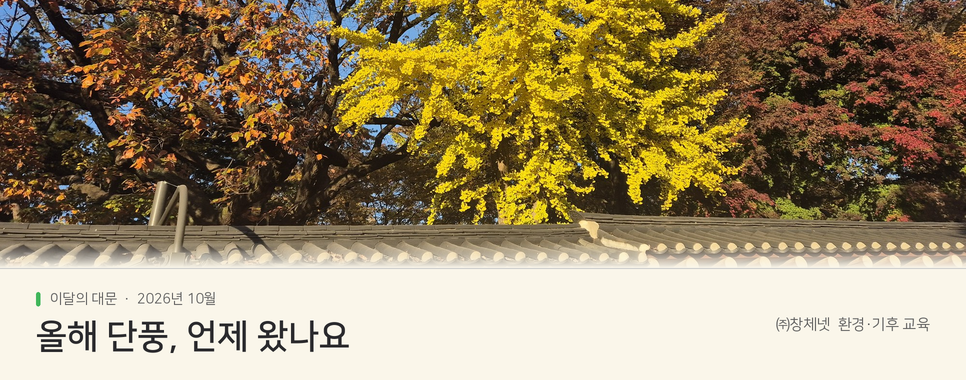
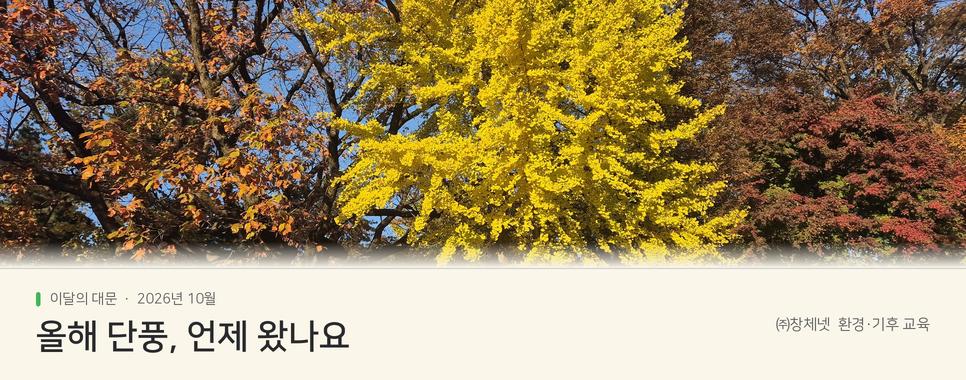
10월 이달의 대문 확정(중간 크롭)과 단풍 포스팅 추가
- blog/covers/2026-10_단풍/: 타이틀을 crop-top 0.55(중간)로 재생성.
  은행나무가 화면을 채우고 좌우 단풍과 대비가 살아난다
- blog/posts/2026-10-01_환경기후교육_올해단풍언제왔나요.md: 본문 1,288자.
  기상청 계절관측 기준(첫 단풍 20%·절정 80%, 최저기온 5도·일교차)과
  2024년 설악산 기록(절정 10월 29일, 평년 대비 12일 늦음, 1985년 관측 이래 최장 지연)을
  근거로 삼고, 대문 사진 선정 이유를 '어긋난 시간'으로 풀어 씀
- README: 구글 드라이브 폴더 구조(01_사진자산·02_이달의대문·03_원고) 안내 추가

Claude-Session: https://claude.ai/code/session_01YRwDhsSCaGfBvwuCs2XTsL

diff --git a/blog/posts/2026-10-01_환경기후교육_올해단풍언제왔나요.md b/blog/posts/2026-10-01_환경기후교육_올해단풍언제왔나요.md
@@ -1,0 +1,53 @@
+---
+section: "🌱 환경·기후 교육 (섹션 A)"
+series: "이달의 대문"
+publish_date: "2026-10-01"
+cover: "blog/covers/2026-10_단풍/창체넷_대문_2026-10_타이틀.png"
+target_reader: "교사, 학부모, 교육 담당자"
+keywords: ["단풍", "기상청 계절관측", "기후변화", "이달의 대문", "환경교육"]
+images:
+  - "도입부: 이달의 대문 타이틀 이미지 또는 03_은행나무_한옥담장.jpg 원본"
+sources:
+  - "기상청 계절관측 기준(첫 단풍 20%·절정 80%), 설악산 2024년 단풍 기록: 2024년 기상청 발표 및 당시 보도"
+  - "발행 전 기상청 기상자료개방포털 계절관측 자료로 최신 연도 수치 재확인 권장"
+status: "draft"   # draft | approved | published
+---
+
+# 제목
+올해 단풍, 언제 왔나요
+
+# 한 줄 요약
+10월 대문 사진을 고른 이유와, 기상청 단풍 관측 기록이 보여주는 늦어지는 가을.
+
+# 본문
+
+이번 달 대문은 한옥 기와담 위로 솟은 은행나무입니다. 왼쪽 나무는 아직 붉게 물드는 중이고, 오른쪽은 이미 갈색으로 넘어갔는데, 가운데 은행나무만 노랗게 절정입니다. 같은 담장 아래 나란히 선 나무들인데 저마다 시간이 다릅니다.
+
+■ 단풍은 언제 '왔다'고 하는 걸까요
+
+기상청은 단풍을 사람 눈으로 관측합니다. 산 정상에서부터 20% 정도 물들면 '첫 단풍', 산 전체의 80%가 물들면 '단풍 절정'으로 기록합니다. 단풍이 시작되려면 최저기온이 5도 아래로 떨어지고 낮과 밤의 기온 차가 커져야 합니다. 그러니까 **단풍은 달력이 아니라 기온이 데려오는 것**입니다. 지난달 대문에서 계절의 시작을 기온이 정한다고 했던 이야기와 같습니다.
+
+■ 설악산이 남긴 기록
+
+2024년 설악산의 단풍 절정은 10월 29일이었습니다. 평년(1991~2020년) 절정일인 10월 17일보다 **열이틀 늦었고, 1985년 설악산에서 단풍을 관측하기 시작한 이래 가장 늦은 기록**이었습니다. 종전 기록은 2021년 10월 26일이었습니다. 첫 단풍도 10월 4일로 평년보다 엿새 늦었습니다. 원인으로는 가을까지 이어진 늦더위가 꼽혔습니다.
+
+**단풍이 늦게 온다는 것은 가을이 늦게 온다는 뜻이고, 그만큼 여름이 물러나지 않았다는 뜻입니다.** 앞서 이야기한 '길어진 여름'이 산에서 확인되는 방식입니다.
+
+■ 이 사진을 대문으로 고른 이유
+
+단풍 사진은 대개 예쁩니다. 그래서 오히려 기후 이야기와 잘 붙지 않습니다. 이 사진을 고른 것은 세 나무의 시간이 어긋나 있기 때문입니다. 같은 자리에 선 나무들이 서로 다른 속도로 물들고 있습니다.
+
+기후변화는 "올해는 덥다" 같은 한 문장으로 오지 않습니다. 이렇게 **어긋난 시간**으로 옵니다. 예쁜 풍경 안에 이미 들어와 있습니다.
+
+■ 올해는 언제였는지 기록해 보세요
+
+학교 운동장이나 등굣길에서 나무 한 그루를 정합니다. 매주 같은 자리에서 사진을 찍고, 잎이 20% 물든 날과 80% 물든 날을 적습니다. 기상청이 하는 것과 같은 방법입니다.
+
+한 해만 모아도 아이들은 자기가 직접 관측한 날짜를 갖게 됩니다. 몇 해가 쌓이면 그것이 우리 학교의 기후 기록이 됩니다. 뉴스에서 들은 숫자와, 내가 세어 본 날짜는 아이에게 전혀 다른 무게로 남습니다.
+
+올해 여러분 동네의 단풍은 언제 왔나요. 창체넷은 매달 대문을 바꾸며 그 달의 환경 이야기를 함께 전하고 있습니다. 학교에서 바로 쓸 수 있는 환경·기후 교육 자료가 필요하시면 편하게 문의해 주세요.
+
+※ 설악산 단풍 기록과 기상청 계절관측 기준은 2024년 기상청 발표와 당시 보도를 참고했습니다.
+
+# 해시태그
+#이달의대문 #단풍 #기상청계절관측 #설악산단풍 #기후변화 #환경교육 #탄소중립교육 #생태전환교육 #계절관측 #창체넷

diff --git a/blog/README.md b/blog/README.md
@@ -46,6 +46,9 @@ blog/
 | 2026-09 | 길어진 여름, 짧아진 봄과 가을 | `covers/2026-09_길어진여름/` |
 | 2026-10 | 올해 단풍, 언제 왔나요 | `covers/2026-10_단풍/` |
 
+대문 이미지와 사진 원본은 구글 드라이브 「창체넷_블로그」 폴더에도 함께 둔다
+(01_사진자산 · 02_이달의대문 · 03_원고).
+
 ## 「함께 나아가는 길」 코너
 
 🏢 창체넷 소식 섹션 안에 두는 기록형 연재입니다. 사업 소식과 달리 대표의 목소리로 씁니다.
